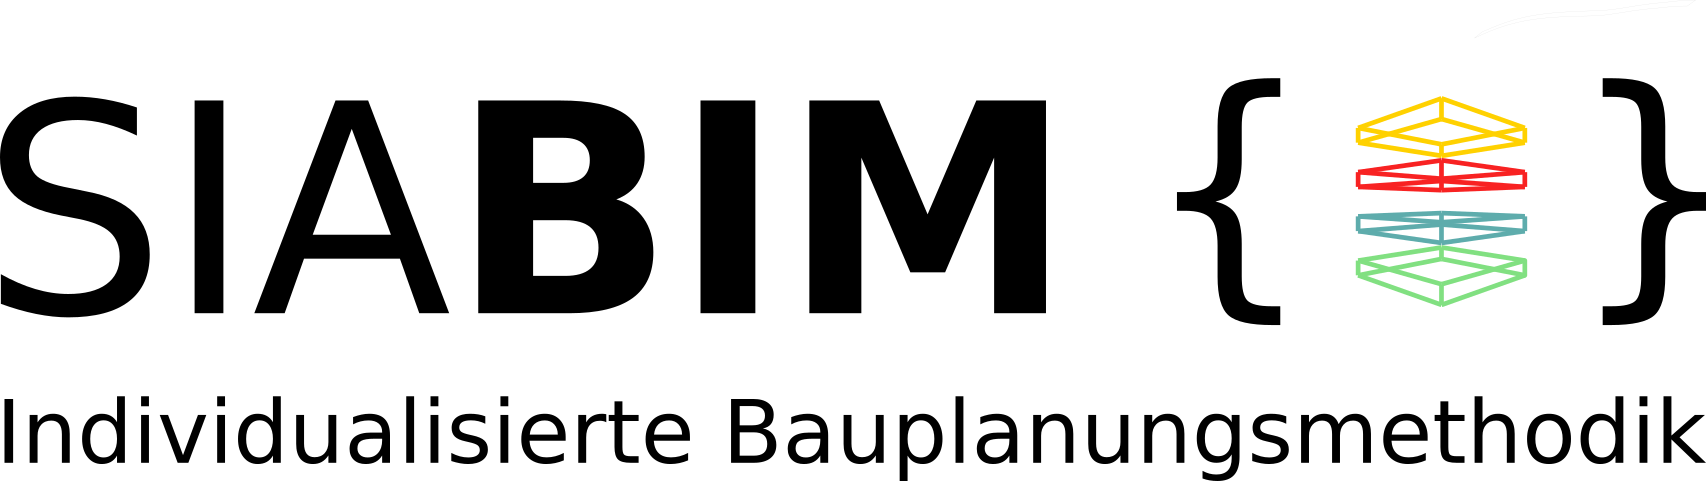
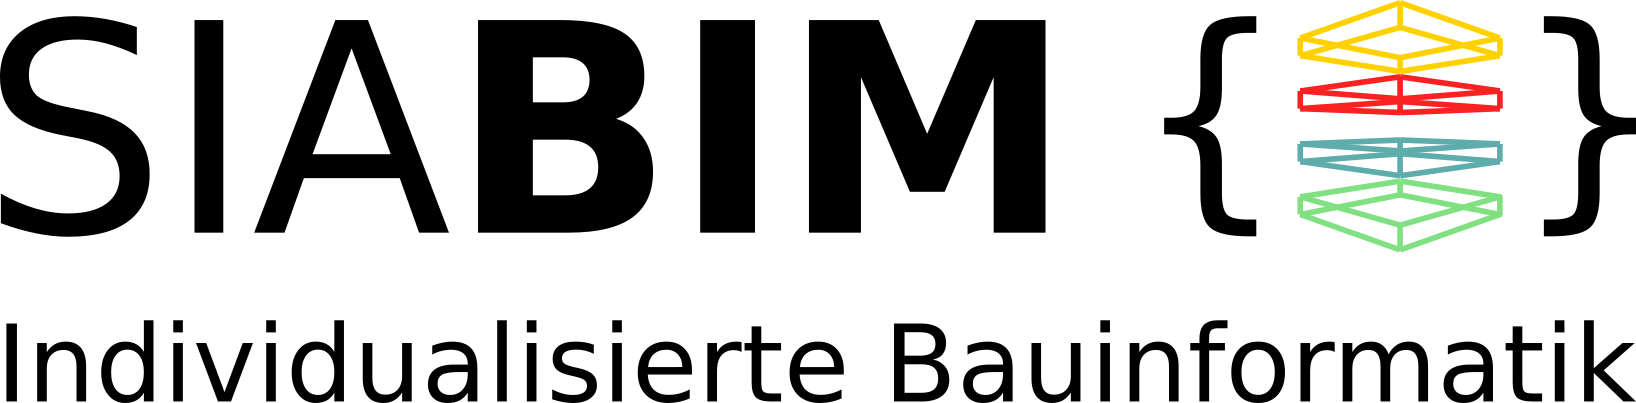
header section added

diff --git a/staticfiles/css/production/siabim.min.css b/staticfiles/css/production/siabim.min.css
@@ -1,1 +1,1 @@
-/*! normalize.css v8.0.1 | MIT License | github.com/necolas/normalize.css */html{line-height:1.15;-webkit-text-size-adjust:100%}body{margin:0}main{display:block}h1{font-size:2em;margin:.67em 0}hr{-webkit-box-sizing:content-box;box-sizing:content-box;height:0;overflow:visible}pre{font-family:monospace,monospace;font-size:1em}a{background-color:transparent}abbr[title]{border-bottom:0;text-decoration:underline;-webkit-text-decoration:underline dotted;text-decoration:underline dotted}b,strong{font-weight:bolder}code,kbd,samp{font-family:monospace,monospace;font-size:1em}small{font-size:80%}sub,sup{font-size:75%;line-height:0;position:relative;vertical-align:baseline}sub{bottom:-0.25em}sup{top:-0.5em}img{border-style:none}button,input,optgroup,select,textarea{font-family:inherit;font-size:100%;line-height:1.15;margin:0}button,input{overflow:visible}button,select{text-transform:none}button,[type="button"],[type="reset"],[type="submit"]{-webkit-appearance:button}button::-moz-focus-inner,[type="button"]::-moz-focus-inner,[type="reset"]::-moz-focus-inner,[type="submit"]::-moz-focus-inner{border-style:none;padding:0}button:-moz-focusring,[type="button"]:-moz-focusring,[type="reset"]:-moz-focusring,[type="submit"]:-moz-focusring{outline:1px dotted ButtonText}fieldset{padding:.35em .75em .625em}legend{-webkit-box-sizing:border-box;box-sizing:border-box;color:inherit;display:table;max-width:100%;padding:0;white-space:normal}progress{vertical-align:baseline}textarea{overflow:auto}[type="checkbox"],[type="radio"]{-webkit-box-sizing:border-box;box-sizing:border-box;padding:0}[type="number"]::-webkit-inner-spin-button,[type="number"]::-webkit-outer-spin-button{height:auto}[type="search"]{-webkit-appearance:textfield;outline-offset:-2px}[type="search"]::-webkit-search-decoration{-webkit-appearance:none}::-webkit-file-upload-button{-webkit-appearance:button;font:inherit}details{display:block}summary{display:list-item}template{display:none}[hidden]{display:none}@font-face{font-family:Nunito-Regular;src:url("Nunito-Regular.ttf")}*{-webkit-box-sizing:border-box;box-sizing:border-box}html{width:100%;height:100%}body{width:100%;height:100%;margin:0;font-family:Nunito-Regular}@media(max-width:899px){body{background-color:rgba(0,0,255,0.1)}}@media(min-width:900px) and (max-width:1099px){body{background-color:rgba(255,0,0,0.1)}}@media(min-width:1100px){body{background-color:rgba(0,128,0,0.1)}}.header_main{background-image:url("siabim_web.png");background-position:right top;background-origin:content-box;background-repeat:no-repeat;background-size:160px;max-width:90%;height:150px;margin:30px auto;padding:35px;border:solid 1px rgba(143,153,23,0.2)}
+/*! normalize.css v8.0.1 | MIT License | github.com/necolas/normalize.css */html{line-height:1.15;-webkit-text-size-adjust:100%}body{margin:0}main{display:block}h1{font-size:2em;margin:.67em 0}hr{-webkit-box-sizing:content-box;box-sizing:content-box;height:0;overflow:visible}pre{font-family:monospace,monospace;font-size:1em}a{background-color:transparent}abbr[title]{border-bottom:0;text-decoration:underline;-webkit-text-decoration:underline dotted;text-decoration:underline dotted}b,strong{font-weight:bolder}code,kbd,samp{font-family:monospace,monospace;font-size:1em}small{font-size:80%}sub,sup{font-size:75%;line-height:0;position:relative;vertical-align:baseline}sub{bottom:-0.25em}sup{top:-0.5em}img{border-style:none}button,input,optgroup,select,textarea{font-family:inherit;font-size:100%;line-height:1.15;margin:0}button,input{overflow:visible}button,select{text-transform:none}button,[type="button"],[type="reset"],[type="submit"]{-webkit-appearance:button}button::-moz-focus-inner,[type="button"]::-moz-focus-inner,[type="reset"]::-moz-focus-inner,[type="submit"]::-moz-focus-inner{border-style:none;padding:0}button:-moz-focusring,[type="button"]:-moz-focusring,[type="reset"]:-moz-focusring,[type="submit"]:-moz-focusring{outline:1px dotted ButtonText}fieldset{padding:.35em .75em .625em}legend{-webkit-box-sizing:border-box;box-sizing:border-box;color:inherit;display:table;max-width:100%;padding:0;white-space:normal}progress{vertical-align:baseline}textarea{overflow:auto}[type="checkbox"],[type="radio"]{-webkit-box-sizing:border-box;box-sizing:border-box;padding:0}[type="number"]::-webkit-inner-spin-button,[type="number"]::-webkit-outer-spin-button{height:auto}[type="search"]{-webkit-appearance:textfield;outline-offset:-2px}[type="search"]::-webkit-search-decoration{-webkit-appearance:none}::-webkit-file-upload-button{-webkit-appearance:button;font:inherit}details{display:block}summary{display:list-item}template{display:none}[hidden]{display:none}@font-face{font-family:Nunito-Regular;src:url("Nunito-Regular.ttf")}*{-webkit-box-sizing:border-box;box-sizing:border-box}html{width:100%;height:100%}body{width:100%;height:100%;margin:0;font-family:Nunito-Regular}@media(max-width:899px){body{background-color:rgba(0,0,255,0.1)}}@media(min-width:900px) and (max-width:1099px){body{background-color:rgba(255,0,0,0.1)}}@media(min-width:1100px){body{background-color:rgba(0,128,0,0.1)}}.header_main{width:100%;height:100%;max-width:1200px;margin:0 auto;background-image:url("siabim_web.png");background-position:right;background-origin:content-box;background-repeat:no-repeat;background-size:contain;height:80px;margin:30px auto;padding:15px 50px;border:solid 1px rgba(143,153,23,0.7)}.header_main .grid_row:after{display:table;content:"";clear:both}

diff --git a/staticfiles/css/production/siabim.css b/staticfiles/css/production/siabim.css
@@ -335,15 +335,22 @@ body {
       background-color: rgba(0, 128, 0, 0.1); } }
 
 .header_main {
+  width: 100%;
+  height: 100%;
+  max-width: 1200px;
+  margin: 0px auto;
   background-image: url("siabim_web.png");
-  background-position: right top;
+  background-position: right;
   background-origin: content-box;
   background-repeat: no-repeat;
-  background-size: 160px;
-  max-width: 90%;
-  height: 150px;
+  background-size: contain;
+  height: 80px;
   margin: 30px auto;
-  padding: 35px;
-  border: solid 1px rgba(143, 153, 23, 0.2); }
+  padding: 15px 50px;
+  border: solid 1px rgba(143, 153, 23, 0.7); }
+  .header_main .grid_row:after {
+    display: table;
+    content: "";
+    clear: both; }
 
 

diff --git a/staticfiles/css/development/sass/header.sass b/staticfiles/css/development/sass/header.sass
@@ -2,13 +2,13 @@
 
 
 .header_main
+  @include grid_container
   background-image: url("siabim_web.png")
-  background-position: right top
+  background-position: right 
   background-origin: content-box
   background-repeat: no-repeat
-  background-size: 160px
-  max-width: 90%
-  height: 150px
+  background-size: contain
+  height: 80px
   margin: 30px auto
-  padding: 35px
+  padding: 15px 50px
   border: solid 1px $border_color

diff --git a/staticfiles/css/development/sass/mixins.sass b/staticfiles/css/development/sass/mixins.sass
@@ -1,6 +1,6 @@
-$border_color: rgba(143, 153, 23, 0.2)
+$border_color: rgba(143, 153, 23, 0.7)
+// $border_color: none
 $body_color:    blue
-$second_color:  midnightblue
 $footer_height: 25
 
 
